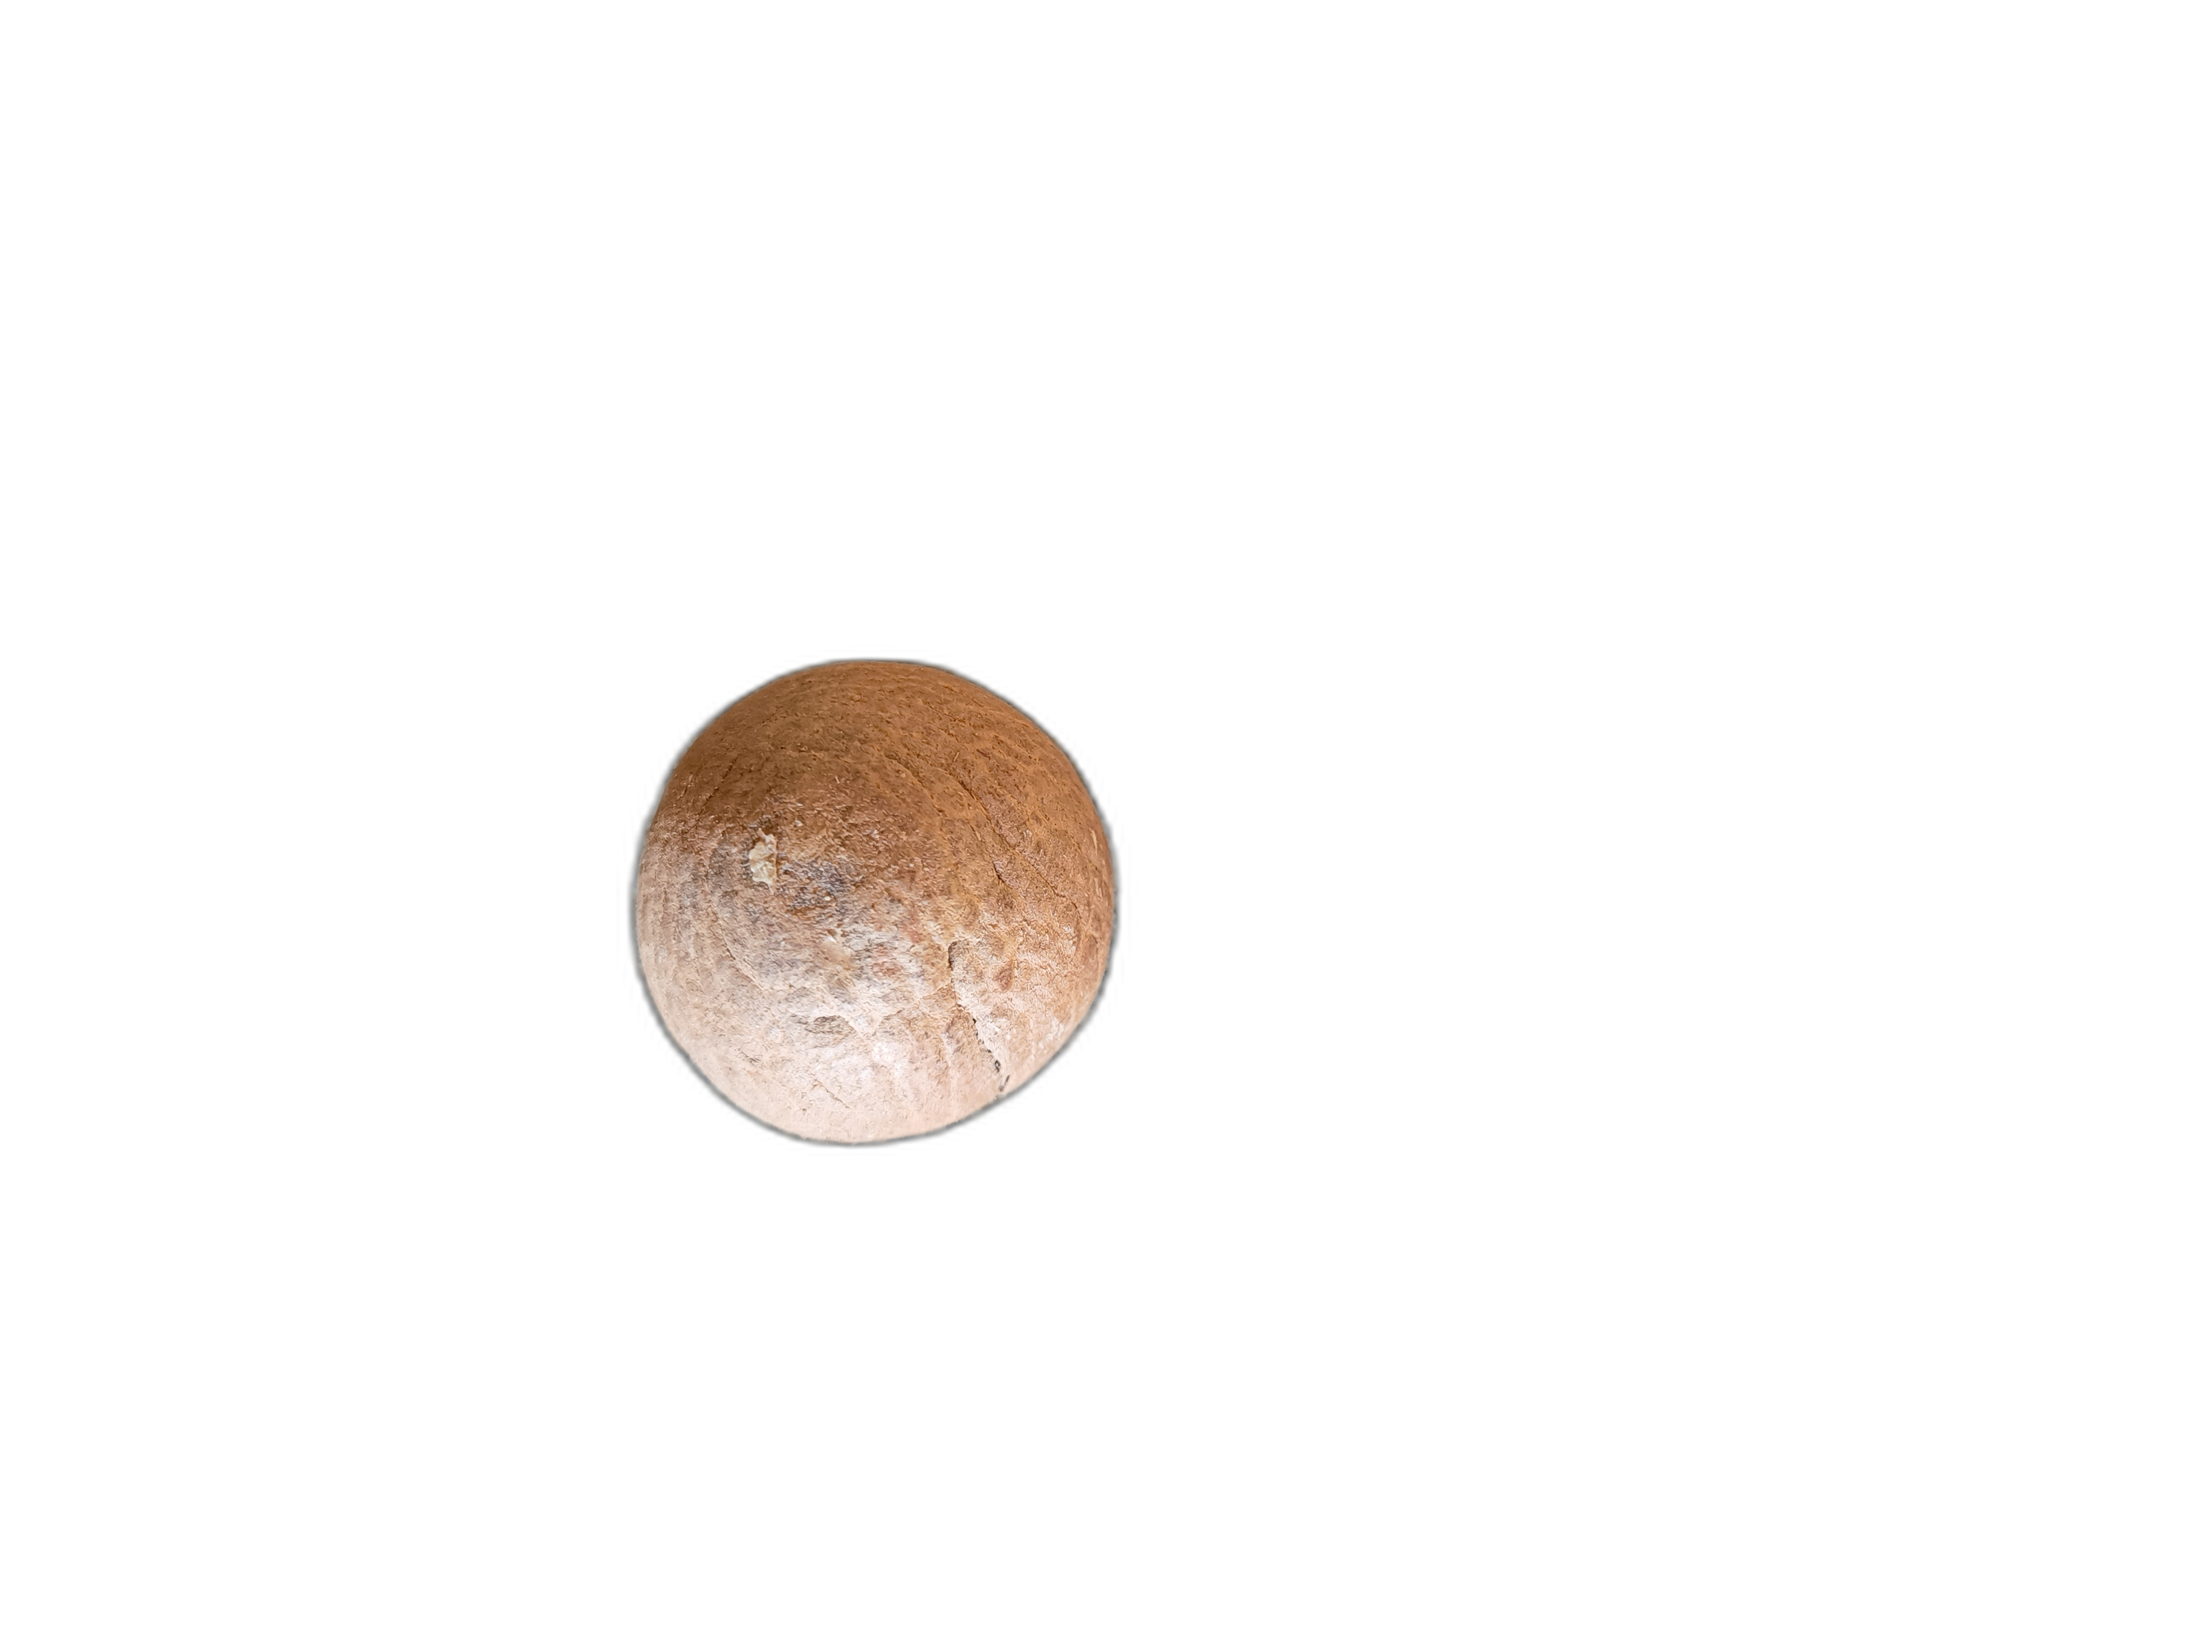
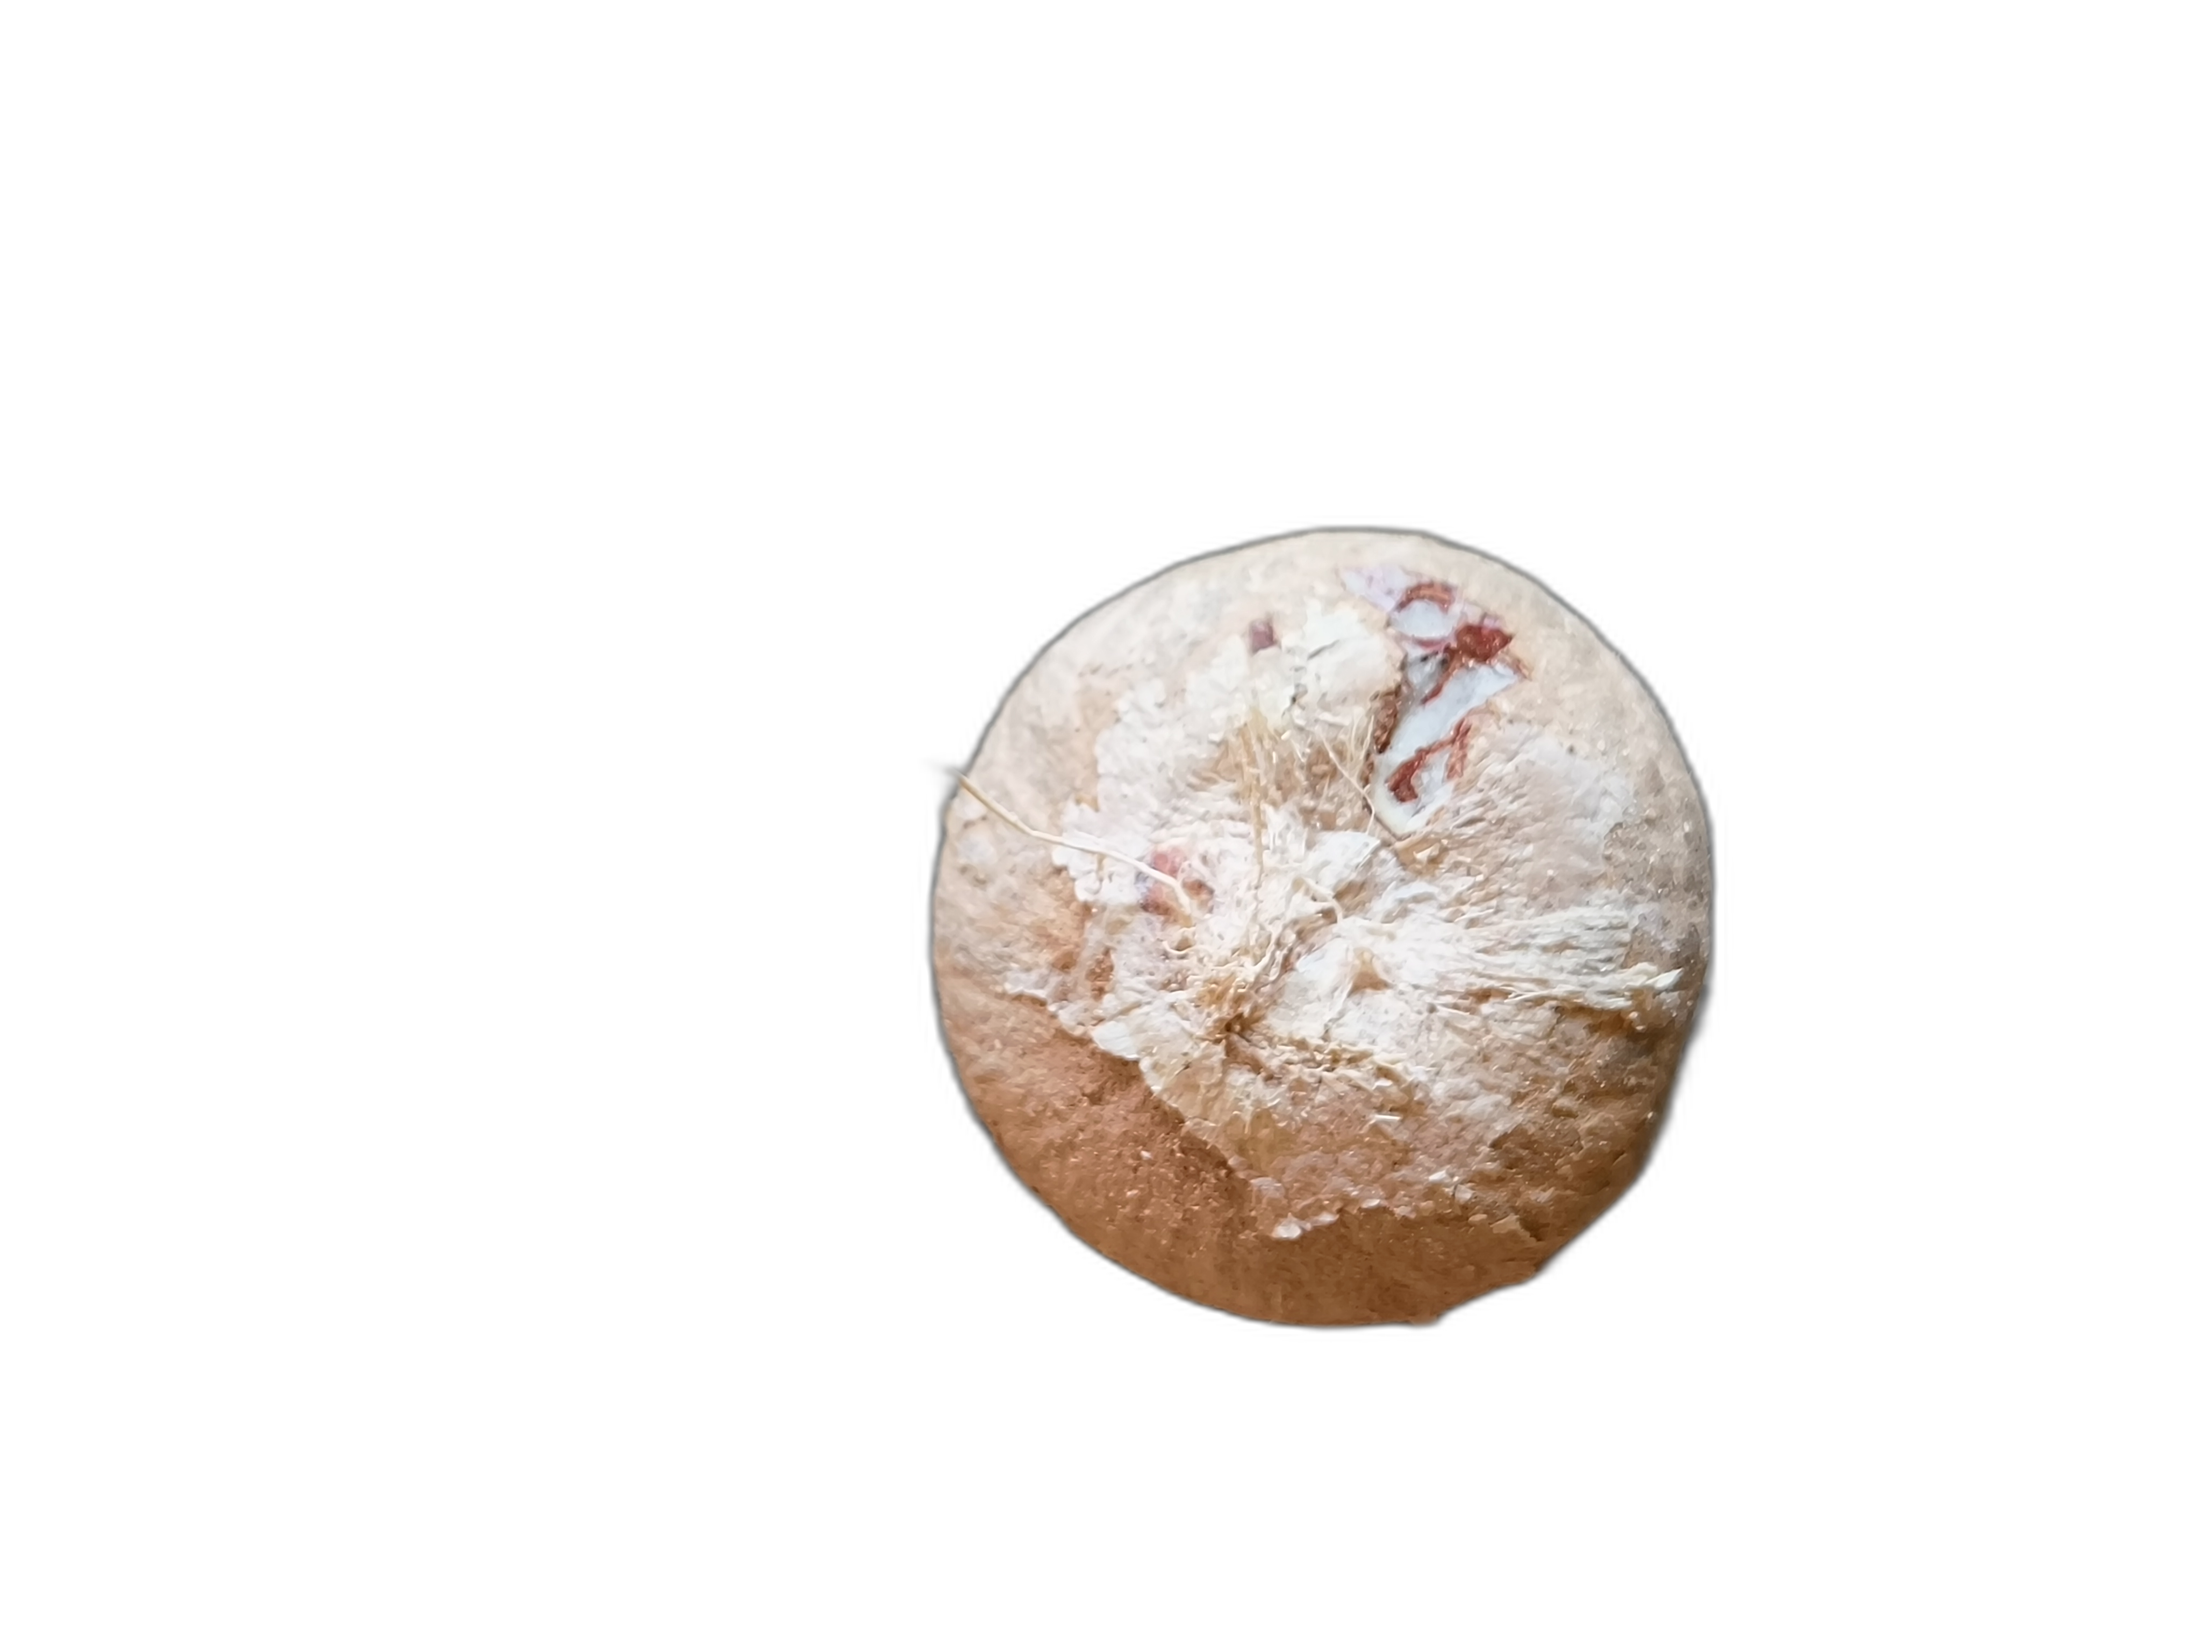
changed pipeline so that all hte steps in image processing is displayed

Changed region(s): [[0.2801, 0.3125, 0.8093, 0.8125]]

diff --git a/app/preprocessing.py b/app/preprocessing.py
@@ -1,81 +1,60 @@
-import os
 import cv2
 import numpy as np
 from rembg import remove
 
 
-# Define a consistent output folder
-OUTPUT_FOLDER = os.path.abspath("app/output")
-
-
-def remove_background(input_image_path, temp_output_path):
+def remove_background_in_memory(input_image):
     """
     Removes the background from an image using `rembg`.
     """
-    with open(input_image_path, "rb") as img_file:
-        input_data = img_file.read()
-
-    output_data = remove(input_data)
-
-    with open(temp_output_path, "wb") as out_file:
-        out_file.write(output_data)
+    _, buffer = cv2.imencode(".png", input_image)
+    output_data = remove(buffer.tobytes())
+    bg_removed_image = cv2.imdecode(np.frombuffer(output_data, np.uint8), cv2.IMREAD_UNCHANGED)
+    return bg_removed_image
 
 
-def preprocess_images(input_image_path):
-    os.makedirs(OUTPUT_FOLDER, exist_ok=True)
-
-    # Process a single input image file
-    if input_image_path.endswith(('.jpg', '.jpeg', '.png')):
-        img = cv2.imread(input_image_path)
-
-        if img is None:
-            print(f"Skipping {input_image_path}, unable to read the file.")
-            return
-
-        resized_img = cv2.resize(img, (128, 128))
-        gray_img = cv2.cvtColor(resized_img, cv2.COLOR_BGR2GRAY)
-        blurred_img = cv2.GaussianBlur(gray_img, (5, 5), sigmaX=1.0, sigmaY=1.0)
-
-        clahe = cv2.createCLAHE(clipLimit=2.0, tileGridSize=(8, 8))
-        clahe_img = clahe.apply(gray_img)
-
-        sharpening_kernel = np.array([[-1, -1, -1],
-                                      [-1, 9, -1],
-                                      [-1, -1, -1]])
-        sharpened_image = cv2.filter2D(clahe_img, -1, sharpening_kernel)
-
-        sobelx = cv2.Sobel(blurred_img, cv2.CV_64F, 1, 0, ksize=3)  # Gradient in X direction
-        sobely = cv2.Sobel(blurred_img, cv2.CV_64F, 0, 1, ksize=3)  # Gradient in Y direction
-
-        gradient_magnitude = np.hypot(sobelx, sobely)
-        gradient_magnitude = np.uint8(255 * gradient_magnitude / np.max(gradient_magnitude))
-
-        normalized_img = cv2.normalize(gradient_magnitude, None, 0, 255, cv2.NORM_MINMAX)
-        normalized_img = np.uint8(normalized_img)
-
-        output_file_path = os.path.join(OUTPUT_FOLDER, "processed_image.png")
-        print("Saving to:", output_file_path)
-        cv2.imwrite(output_file_path, normalized_img)
-    print("Preprocessing complete. Image saved to:", OUTPUT_FOLDER)
-
-
-def process_arecanut_image(input_image_path):
+def process_arecanut_image_steps(input_image_path):
     """
-    Combines background removal and preprocessing steps.
+    Processes the arecanut image step by step and returns intermediate results.
     """
-    os.makedirs(OUTPUT_FOLDER, exist_ok=True)
-    temp_path = os.path.join(OUTPUT_FOLDER, "temp_image.png")
-    output_path = os.path.join(OUTPUT_FOLDER, "processed_image.png")
+    steps = {}
 
-    # Background removal
-    remove_background(input_image_path, temp_path)
-    if not os.path.exists(temp_path):
-        raise RuntimeError(f"Temporary file not created: {temp_path}")
+    # Read input image
+    img = cv2.imread(input_image_path)
+    if img is None:
+        raise ValueError("Unable to read the input image.")
 
-    # Preprocessing
-    preprocess_images(temp_path)
+    steps["Original Image"] = img
 
-    if not os.path.exists(output_path):
-        raise RuntimeError(f"Processed file not created: {output_path}")
+    # Step 1: Remove Background
+    bg_removed_img = remove_background_in_memory(img)
+    steps["Background Removed"] = bg_removed_img
 
-    return output_path
+    # Step 2: Resize to 128x128
+    resized_img = cv2.resize(bg_removed_img, (128, 128))
+    steps["Resized Image (128x128)"] = resized_img
+
+    # Step 3: Convert to Grayscale
+    gray_img = cv2.cvtColor(resized_img, cv2.COLOR_BGR2GRAY)
+    steps["Grayscale Image"] = gray_img
+
+    # Step 4: Apply CLAHE
+    clahe = cv2.createCLAHE(clipLimit=2.0, tileGridSize=(8, 8))
+    clahe_img = clahe.apply(gray_img)
+    steps["CLAHE Enhanced Image"] = clahe_img
+
+    # Step 5: Apply Sharpening
+    sharpening_kernel = np.array([[-1, -1, -1],
+                                  [-1, 9, -1],
+                                  [-1, -1, -1]])
+    sharpened_image = cv2.filter2D(clahe_img, -1, sharpening_kernel)
+    steps["Sharpened Image"] = sharpened_image
+
+    # Step 6: Compute Sobel Gradient Magnitude
+    sobelx = cv2.Sobel(sharpened_image, cv2.CV_64F, 1, 0, ksize=3)
+    sobely = cv2.Sobel(sharpened_image, cv2.CV_64F, 0, 1, ksize=3)
+    gradient_magnitude = np.hypot(sobelx, sobely)
+    gradient_magnitude = np.uint8(255 * gradient_magnitude / np.max(gradient_magnitude))
+    steps["Sobel Gradient Magnitude"] = gradient_magnitude
+
+    return steps

diff --git a/app/app.py b/app/app.py
@@ -1,5 +1,5 @@
 import streamlit as st
-from preprocessing import process_arecanut_image
+from preprocessing import process_arecanut_image_steps
 from utils import save_uploaded_file
 
 
@@ -9,9 +9,12 @@ st.title("Arecanut Image Processing App")
 st.write(
     """
     This app allows you to upload an arecanut image and processes it through the following steps:
-    - Converts the image to PNG format.
     - Removes the background.
-    - Preprocesses the image (resizing, grayscale, CLAHE, sharpening, and Sobel gradient).
+    - Resizes the image to 128x128.
+    - Converts the image to grayscale.
+    - Applies CLAHE for contrast enhancement.
+    - Applies sharpening.
+    - Computes Sobel gradient magnitude.
     """
 )
 
@@ -23,15 +26,17 @@ if uploaded_file is not None:
 
     if st.button("Process Image"):
         try:
-            # Save uploaded file
+            # Save uploaded file temporarily
             temp_file_path = save_uploaded_file(uploaded_file)
 
-            # Process the temporary file
-            output_folder = "output/"
-            output_path = process_arecanut_image(temp_file_path)
+            # Process the image step by step
+            steps = process_arecanut_image_steps(temp_file_path)
 
-            # Display the processed image
-            st.image(output_path, use_container_width=True)
+            # Display each processing step
+            for step_name, step_image in steps.items():
+                st.subheader(step_name)
+                st.image(step_image, use_column_width=True)
+
             st.success("Image processed successfully!")
         except Exception as e:
             st.error(f"Error: {e}")

diff --git a/app/utils.py b/app/utils.py
@@ -1,6 +1,4 @@
-import os
 import tempfile
-
 
 def save_uploaded_file(uploaded_file):
     """
